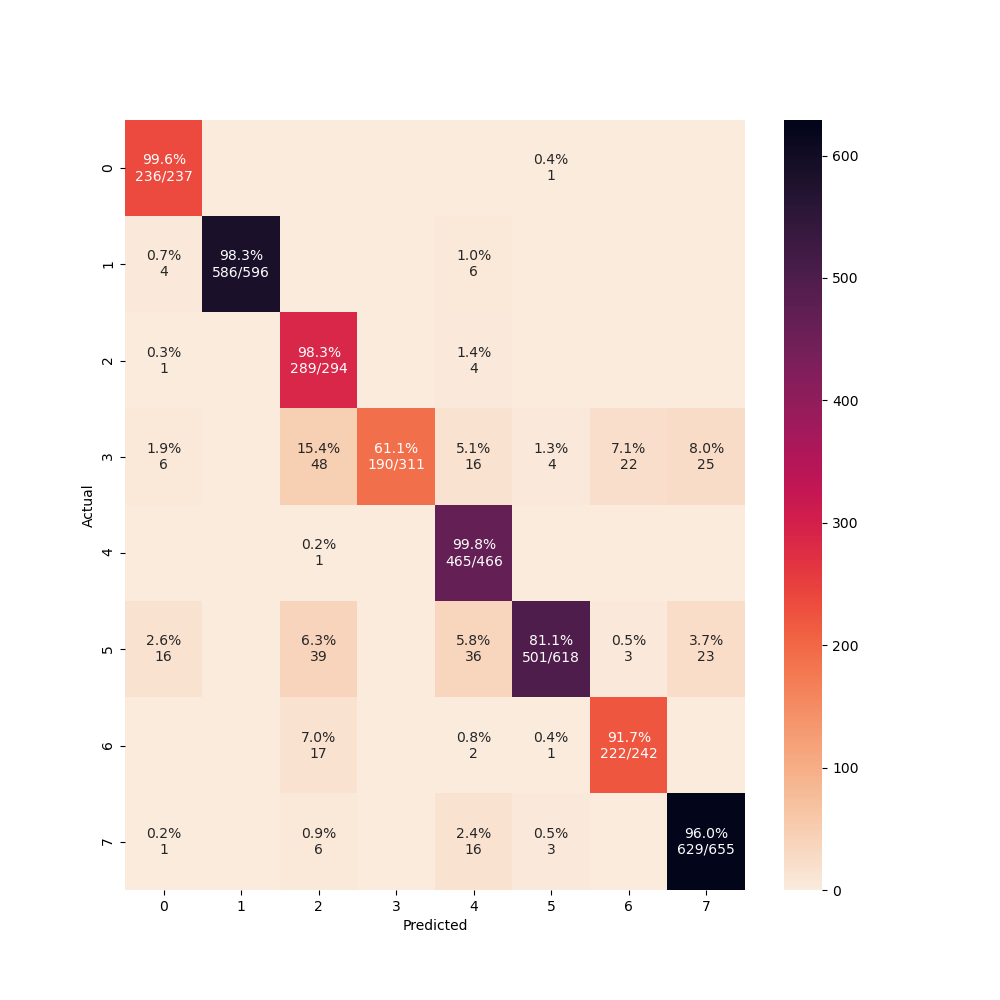
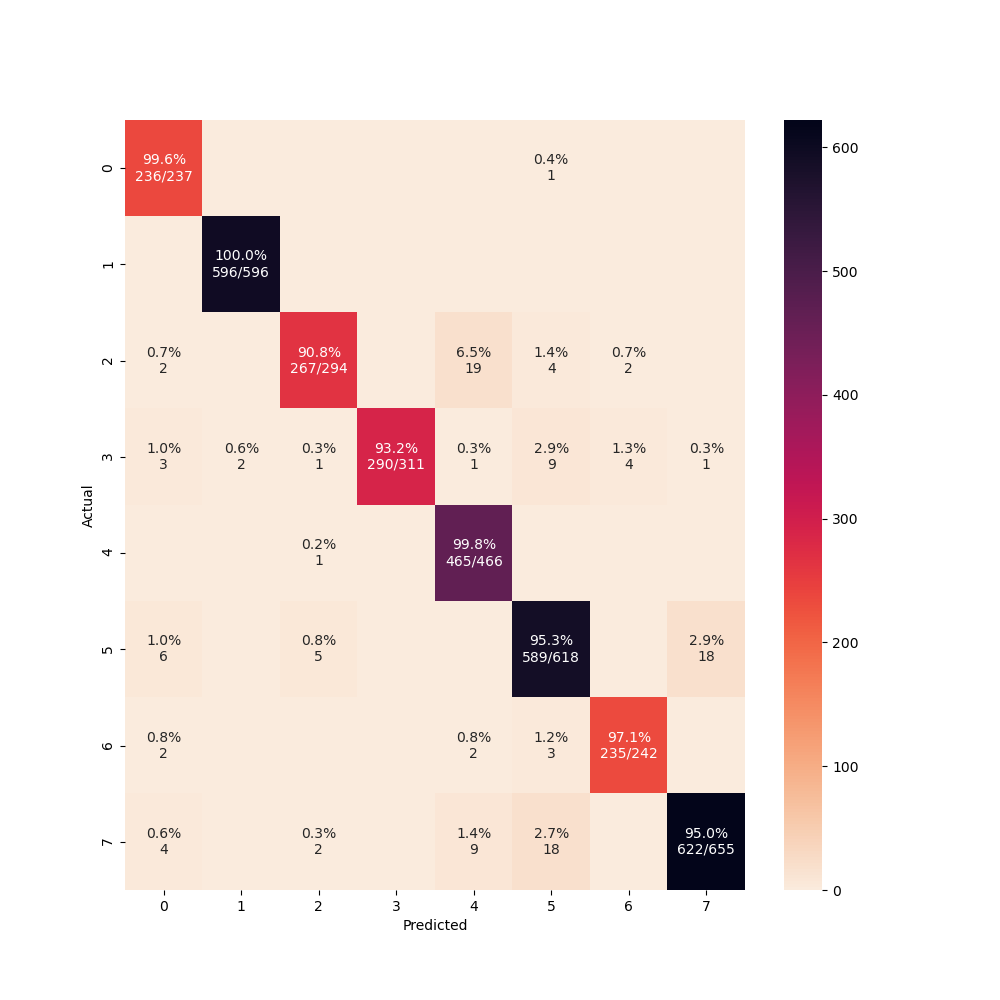
added nasnet large through tmux mobile

diff --git a/Classifier/PBC_cropped_NASNetLarge_fine_tuned/finetuned.py b/Classifier/PBC_cropped_NASNetLarge_fine_tuned/finetuned.py
@@ -237,7 +237,7 @@ tensorboard_callback = keras.callbacks.TensorBoard(log_dir=logdir)
 
 history = model.fit(train_gen,
                     steps_per_epoch=len(train_idx)//batch_size,
-                    epochs=1,
+                    epochs=100,
                     callbacks=[tensorboard_callback,callbacks],
                     validation_data=valid_gen,
                     validation_steps=len(valid_idx)//valid_batch_size)
